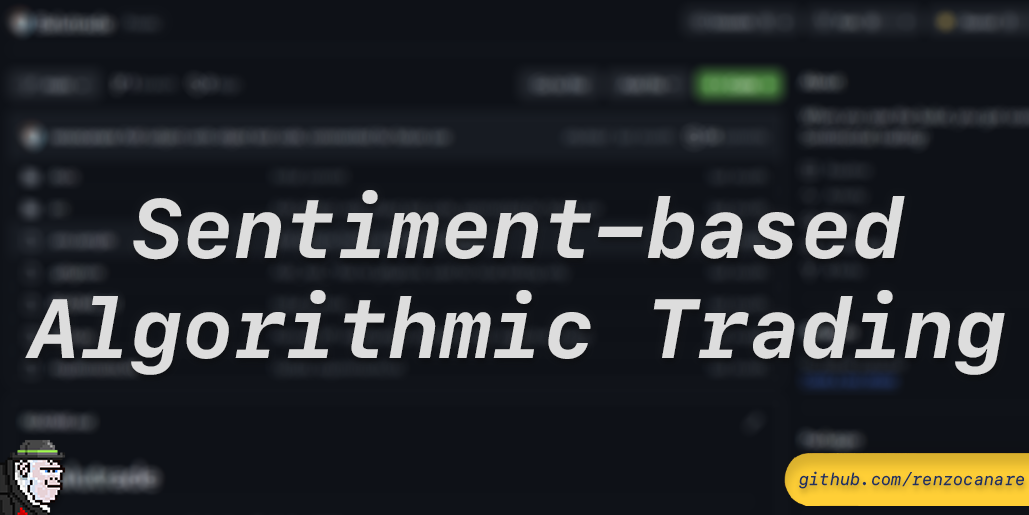
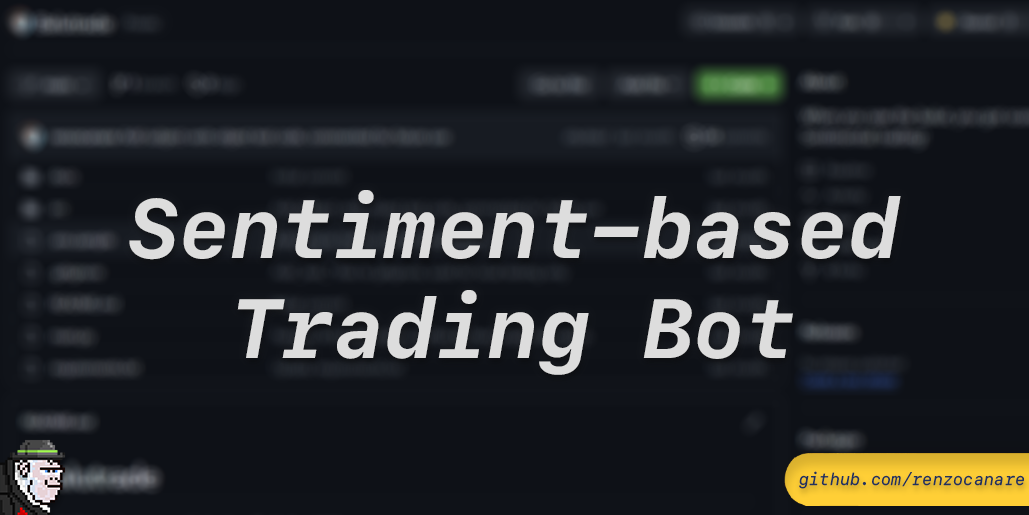
Update description for SBAT

diff --git a/src/helpers/ProjectList.js b/src/helpers/ProjectList.js
@@ -32,7 +32,7 @@ export const PersonalProjectList = [
   },
   {
     image: SBATBanner,
-    name: "Sentiment-based Algorithmic Trading",
+    name: "Sentiment-based Trading Bot",
     status: "Paused (to study for school)",
     shortdesc: "Using sentiment from online articles to enter Crypto trading positions.",
     // eslint-disable-next-line
